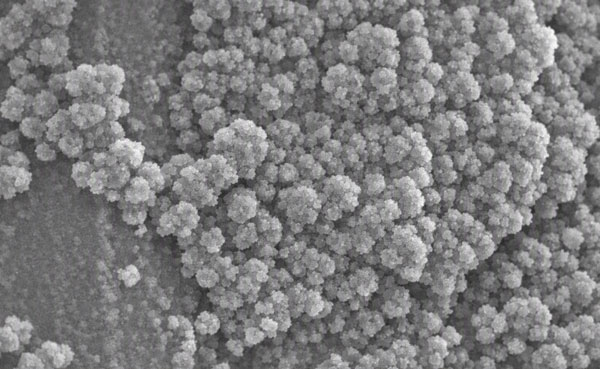
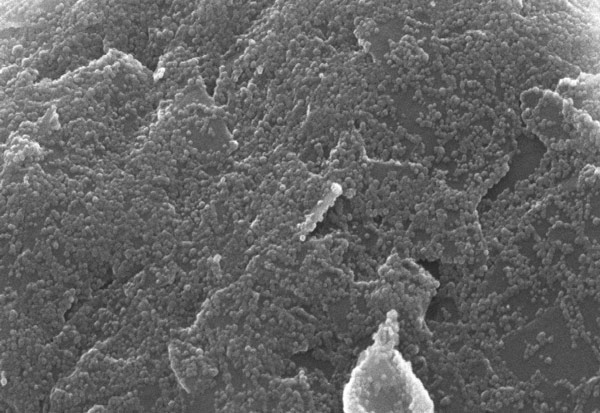
update

diff --git a/assets/css/style.css b/assets/css/style.css
@@ -293,7 +293,7 @@ p {
   display: flex;
   align-items: flex-end;
   background-color: var(--charcoal);
-  background-image: linear-gradient(180deg, rgba(43, 43, 44, 0.35) 0%, rgba(30, 30, 31, 0.92) 78%), url('../img/microscope-zoom-2.jpg');
+  background-image: linear-gradient(180deg, rgba(43, 43, 44, 0.35) 0%, rgba(30, 30, 31, 0.92) 78%), url('../img/electronic-microscope-molecule-zoom.jpg');
   background-size: cover;
   background-position: center;
   overflow: hidden;

diff --git a/index.php b/index.php
@@ -65,22 +65,21 @@ require_once __DIR__ . '/includes/header.php';
   </div>
 </section>
 
-<section class="band band-charcoal">
-  <div class="wrap split reveal">
-    <div>
-      <div class="section-head">
-        <h2><?php echo t('home.pilot.heading'); ?></h2>
-      </div>
+<section class="band band-bg">
+  <div class="wrap reveal">
+    <div class="section-head">
+      <h2><?php echo t('home.pilot.heading'); ?></h2>
       <p><?php echo t('home.pilot.text'); ?></p>
     </div>
-    <figure style="margin:0;">
-      <img src="<?php echo ASSETS_URL; ?>assets/img/pilot-reactor-technician.jpg" alt="<?php echo htmlspecialchars(t('home.pilot.alt')); ?>" style="width:100%; height:auto; border:1px solid var(--line);" loading="lazy">
-      <figcaption style="margin-top:14px; color:var(--ink-dim); font-size:.92rem;"><?php echo t('home.pilot.caption'); ?></figcaption>
-    </figure>
+  </div>
+  <div class="filmstrip">
+    <img src="<?php echo ASSETS_URL; ?>assets/img/pilot-reactor-technician.jpg" alt="<?php echo htmlspecialchars(t('home.pilot.alt')); ?>" loading="lazy">
+    <img src="<?php echo ASSETS_URL; ?>assets/img/pilot-reactor-technician-zoom-on-hands.jpg" alt="<?php echo htmlspecialchars(t('home.pilot.alt2')); ?>" loading="lazy">
+    <img src="<?php echo ASSETS_URL; ?>assets/img/putting-graphite-powder-macro.jpg" alt="<?php echo htmlspecialchars(t('home.pilot.alt3')); ?>" loading="lazy">
   </div>
 </section>
 
-<section class="band band-bg" style="padding-bottom:0;">
+<section class="band band-charcoal" style="padding-bottom:0;">
   <div class="wrap reveal">
     <div class="section-head">
       <h2><?php echo t('home.filmstrip.heading'); ?></h2>
@@ -93,6 +92,7 @@ require_once __DIR__ . '/includes/header.php';
     <img src="<?php echo ASSETS_URL; ?>assets/img/graphite-particle.jpg" alt="<?php echo htmlspecialchars(t('home.filmstrip.alt3')); ?>" loading="lazy">
     <img src="<?php echo ASSETS_URL; ?>assets/img/micorscorpe-zoom.jpg" alt="<?php echo htmlspecialchars(t('home.filmstrip.alt4')); ?>" loading="lazy">
     <img src="<?php echo ASSETS_URL; ?>assets/img/microscope-zoom-2.jpg" alt="<?php echo htmlspecialchars(t('home.filmstrip.alt5')); ?>" loading="lazy">
+    <img src="<?php echo ASSETS_URL; ?>assets/img/powder-samples-wood-containers.jpg" alt="<?php echo htmlspecialchars(t('home.filmstrip.alt6')); ?>" loading="lazy">
   </div>
 </section>
 

diff --git a/includes/lang/ja.php b/includes/lang/ja.php
@@ -42,10 +42,13 @@ return [
     'home.filmstrip.alt3'    => '電子顕微鏡で見た単一の黒鉛粒子',
     'home.filmstrip.alt4'    => '顕微鏡で見た粒子表面のテクスチャ',
     'home.filmstrip.alt5'    => 'コーティングされた粒子表面のクローズアップ',
+    'home.filmstrip.alt6'    => '濃い色の原料から細かく明るい粉末まで、さまざまな配合のサンプルが並んだ小さなトレイ',
 
     'home.pilot.heading'  => 'パイロットスケールでの製造',
     'home.pilot.text'     => 'SiBoostは実験室のガラス器具ではなく、実際の生産設備で製造されています——つまり試験で有効だったものが、そのまま出荷されます。',
     'home.pilot.alt'      => '防護マスクを着用した技術者がステンレス製パイロットリアクターのバルブを調整している様子',
+    'home.pilot.alt2'     => '紫色の照明の中、手袋をした手がパイロットリアクターの継手を調整しているクローズアップ',
+    'home.pilot.alt3'     => '計量された黒鉛粉末が混合容器に加えられている様子',
     'home.pilot.caption'  => 'パイロットスケールのリアクター、稼働中。',
 
     // 製品ページ

diff --git a/includes/lang/fr.php b/includes/lang/fr.php
@@ -42,10 +42,13 @@ return [
     'home.filmstrip.alt3'    => 'Particule de graphite unique au microscope électronique',
     'home.filmstrip.alt4'    => "Texture de surface d'une particule au microscope",
     'home.filmstrip.alt5'    => "Gros plan sur la surface d'une particule enrobée",
+    'home.filmstrip.alt6'    => "Une série de petits plateaux d'échantillons contenant différentes formulations de poudre, de la matière brute foncée aux poudres claires fines",
 
     'home.pilot.heading'  => 'Fabriqué à l\'échelle pilote',
     'home.pilot.text'     => "SiBoost est produit sur un véritable équipement de production, pas en verrerie de laboratoire &mdash; ce qui fonctionne à l'essai est donc ce qui est expédié.",
     'home.pilot.alt'      => 'Un technicien portant un masque respiratoire règle une vanne sur un réacteur pilote en acier inoxydable',
+    'home.pilot.alt2'     => 'Gros plan sur des mains gantées réglant un raccord du réacteur pilote, sous un éclairage violet',
+    'home.pilot.alt3'     => 'Une dose de poudre de graphite mesurée puis versée dans une cuve de mélange',
     'home.pilot.caption'  => 'Réacteur à l\'échelle pilote, en cours de production.',
 
     // Page produit

diff --git a/includes/lang/en.php b/includes/lang/en.php
@@ -44,10 +44,13 @@ return [
     'home.filmstrip.alt3'    => 'Single graphite particle under electron microscope',
     'home.filmstrip.alt4'    => 'Particle surface texture under microscope',
     'home.filmstrip.alt5'    => 'Close-up of coated particle surface',
+    'home.filmstrip.alt6'    => 'A row of small sample trays holding different powder formulations, from dark raw material to fine light powders',
 
     'home.pilot.heading'  => 'Built at pilot scale',
     'home.pilot.text'     => 'SiBoost is produced on real production equipment, not lab glassware &mdash; so what works in testing is what ships.',
     'home.pilot.alt'      => 'A technician in a respirator mask adjusts a valve on a stainless steel pilot reactor',
+    'home.pilot.alt2'     => 'Close-up of gloved hands adjusting a fitting on the pilot reactor, lit in purple',
+    'home.pilot.alt3'     => 'A scoop of graphite powder being measured and added into a mixing vessel',
     'home.pilot.caption'  => 'Pilot-scale reactor, mid-run.',
 
     // Product page

diff --git a/includes/lang/zh.php b/includes/lang/zh.php
@@ -42,10 +42,13 @@ return [
     'home.filmstrip.alt3'    => '电子显微镜下的单个石墨颗粒',
     'home.filmstrip.alt4'    => '显微镜下的颗粒表面纹理',
     'home.filmstrip.alt5'    => '涂层颗粒表面的近距离特写',
+    'home.filmstrip.alt6'    => '一排装有不同粉末配方的样品盘，从深色原料到细腻的浅色粉末',
 
     'home.pilot.heading'  => '中试规模生产',
     'home.pilot.text'     => 'SiBoost 在真正的生产设备上制造，而非实验室玻璃器皿中——这意味着测试中验证有效的，就是最终交付的。',
     'home.pilot.alt'      => '佩戴防护面罩的技术人员正在调节不锈钢中试反应釜上的阀门',
+    'home.pilot.alt2'     => '紫色灯光下，戴手套的双手正在调节中试反应釜上的接头，特写镜头',
+    'home.pilot.alt3'     => '一勺石墨粉末被精确称量后加入混合容器中',
     'home.pilot.caption'  => '中试规模反应釜，生产运行中。',
 
     // 产品页
